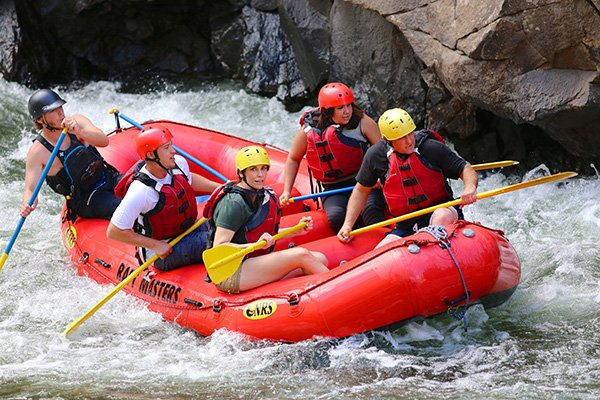
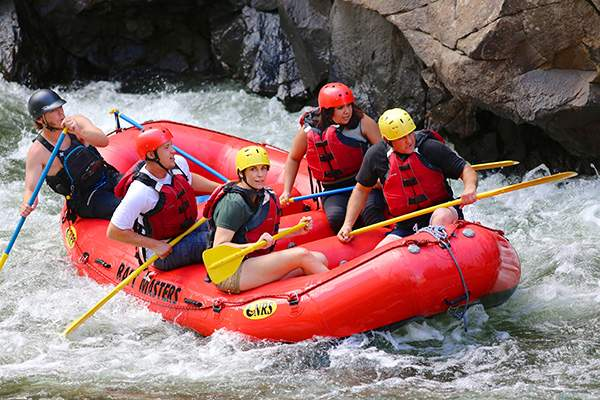
W04 Rafting About Us Page Update

diff --git a/wwr/about.html b/wwr/about.html
@@ -29,12 +29,34 @@
                 <p>Our mission is to provide exciting and memorable white water rafting adventures while promoting safety, teamwork, and respect for nature.</p>
             </article>
         </div>
-        <section>
+        <section class="history">
             <h2>History</h2>
-            <p>Splash White Water Rafting was founded with a passion for outdoor adventure and exploring beautiful rivers. Our company is dedicated to creating unforgettable experiences for families, friends, and adventure enthusiasts.</p>
+            <p>Splash White Water Rafting was founded with a passion for outdoor adventure and exploring beautiful rivers.</p>
+            <img src="images/rafting19_600.jpg" alt="White water rafting adventure">
+            <p>Our company is dedicated to creating unforgettable experiences for families, friends, and adventure enthusiasts.</p>
         </section>
-        <section>
+        <section class="adventures">
             <h2>Adventure Awaits You!</h2>
+            <figure>
+                <img src="images/rafting43_600.jpg" alt="White water rafting adventure">
+                <figcaption>River Adventure</figcaption>
+            </figure>
+            <figure>
+                <img src="images/rafting65_600.jpg" alt="Rafting on the river">
+                <figcaption>Big Mallard</figcaption>
+            </figure>
+            <figure>
+                <img src="images/rafting15_1024.jpg" alt="Rafting excursion">
+                <figcaption>Half Day Adventure</figcaption>
+            </figure>
+            <figure>
+                <img src="images/rafting29_600.jpg" alt="White water rapids">
+                <figcaption>White Water Rapids</figcaption>
+            </figure>
+            <figure>
+                <img src="images/rafting42_600.jpg" alt="River rafting trip">
+                <figcaption>Full Day Adventure</figcaption>
+            </figure>
         </section>
     </main>
     <footer>

diff --git a/wwr/styles/rafting.css b/wwr/styles/rafting.css
@@ -25,6 +25,9 @@ footer {
 }
 
 header {
+    display: grid;
+    grid-template-columns: 1fr 2fr;
+    align-items: center;
     background-color: var(--primary-color);
     color: var(--accent2-color);
 }
@@ -94,4 +97,55 @@ header img {
 header nav a {
     color: white;
     margin-right: 20px;
+}
+
+header nav {
+    display: flex;
+    justify-content: space-evenly;
+    align-items: center;
+}
+
+.history {
+    display: grid;
+    grid-template-columns: 1fr 150px 1fr;
+    align-items: center;
+    gap: 16px;
+}
+
+.history h2 {
+    grid-column: 1 / 4;
+    text-align: center;
+}
+
+.history img {
+    width: 150px;
+    height: auto;
+}
+
+.adventures {
+    display: grid;
+    grid-template-columns: repeat(5, 1fr);
+    gap: 10px;
+    text-align: center;
+}
+
+.adventures h2 {
+    grid-column: 1 / 6;
+}
+
+.adventures img {
+    width: 100%;
+    height: 90px;
+    object-fit: cover;
+}
+
+footer {
+    display: flex;
+    justify-content: space-between;
+    align-items: center;
+}
+
+footer .socialmedia {
+    display: flex;
+    gap: 10px;
 }
